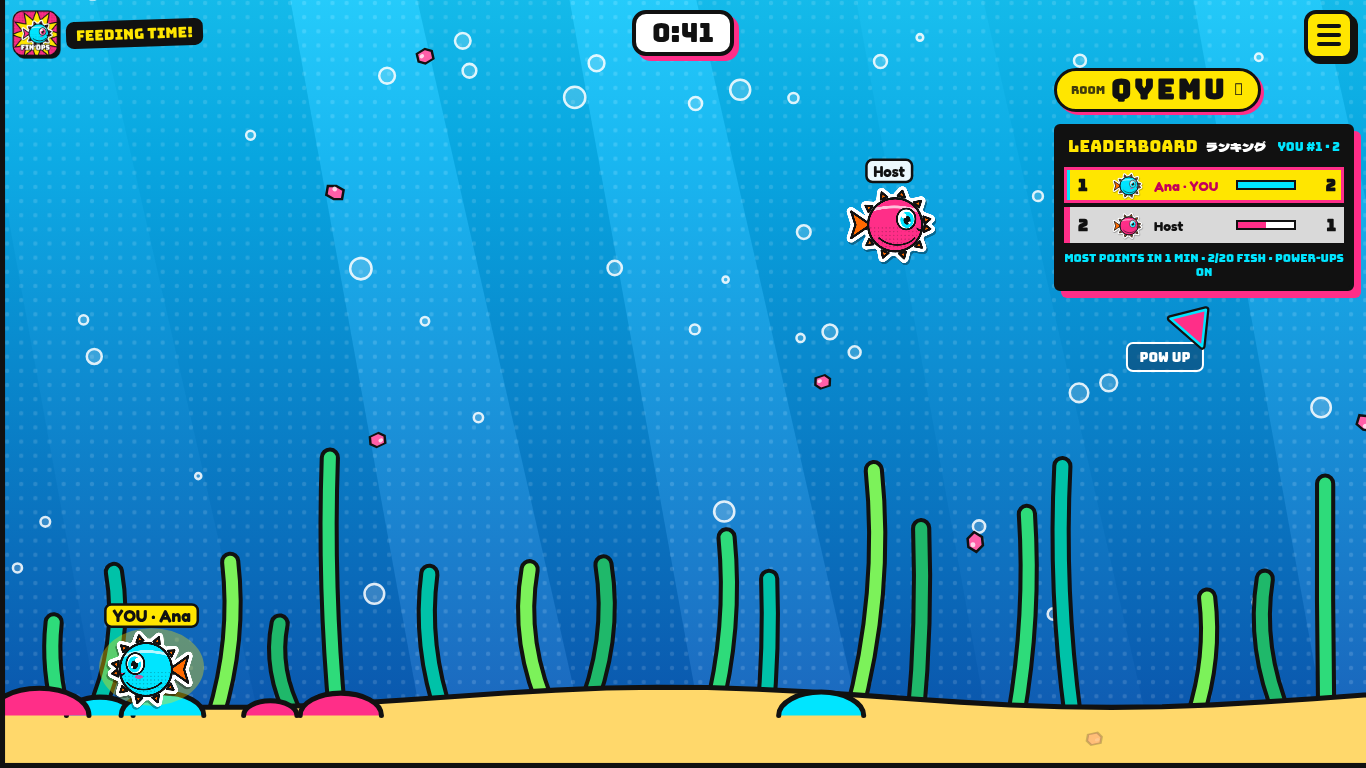
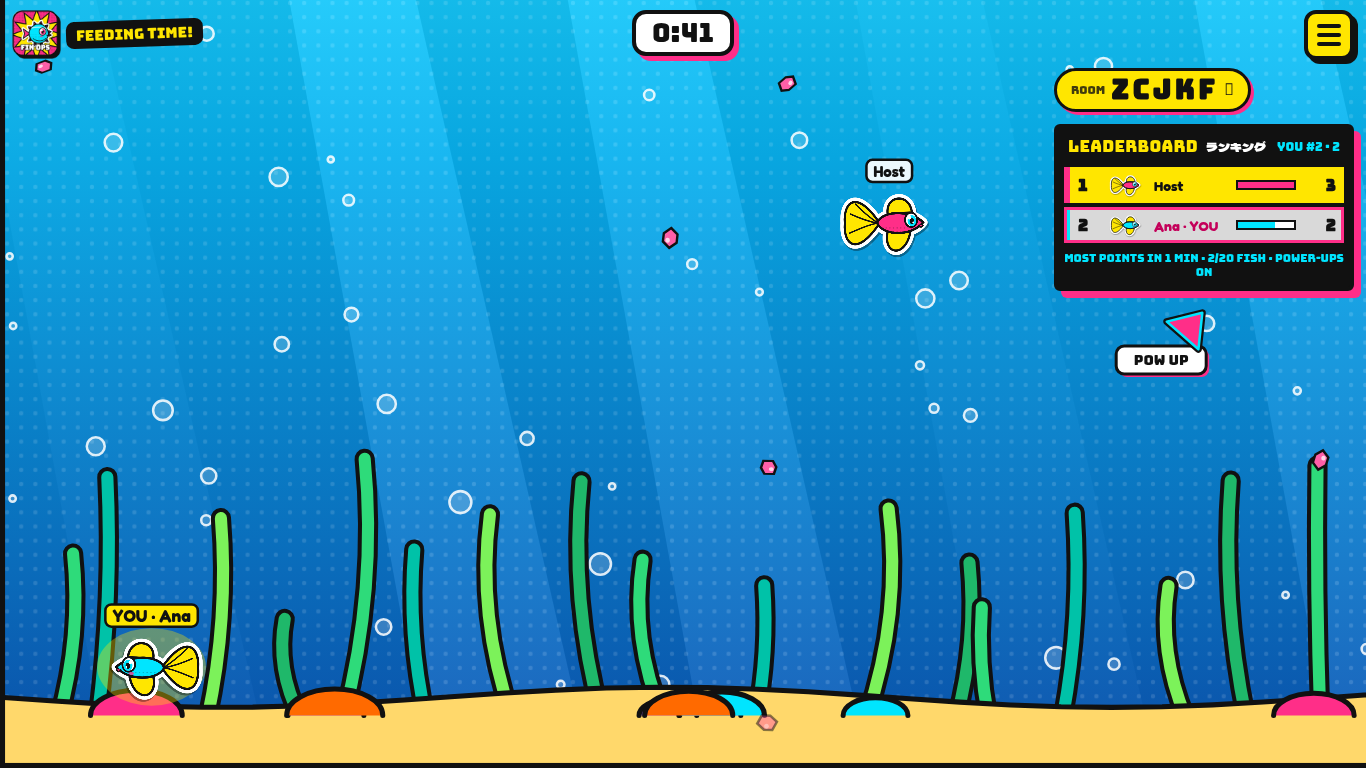
Fin Ops: POW UP indicator styled like the timer pill

diff --git a/games/finops/app.js b/games/finops/app.js
@@ -1212,10 +1212,10 @@ function drawBursts(t) {
 // off-screen pointer to the pill, drawn in screen space
 function drawPillArrow(pill, t) {
   // off-screen indicator: subtle white "POW UP" box + pink arrow (14px gap from the box edge), no pulse
-  const BW = 76, BH = 28, GAP = 14, AL = 30, AW = 21; // box size, arrow gap / length / half-width
+  const BW = 90, BH = 28, SH = 3, GAP = 14, AL = 30, AW = 21; // box size, arrow gap / length / half-width
   const sx = (pill.x - cam.x) * cam.z + VW / 2, sy = (pill.y - cam.y) * cam.z + VH / 2;
   if (sx > 0 && sx < VW && sy > 0 && sy < VH) return;
-  const mx = BW / 2 + GAP + AL + 8, my = BH / 2 + GAP + AL + 8; // keep box + arrow tip fully on screen
+  const mx = BW / 2 + GAP + AL + SH + 8, my = BH / 2 + GAP + AL + SH + 8; // keep box + arrow tip fully on screen
   const cx = VW / 2, cy = VH / 2, dx = sx - cx, dy = sy - cy, sc = Math.min((VW / 2 - mx) / Math.abs(dx || 1e-6), (VH / 2 - my) / Math.abs(dy || 1e-6));
   let ax = cx + dx * sc, ay = cy + dy * sc;
   // slide below any HUD panel (leaderboard, room code, timer, menu) it would sit under
@@ -1225,9 +1225,11 @@ function drawPillArrow(pill, t) {
   const ang = Math.atan2(sy - ay, sx - ax), c = Math.abs(Math.cos(ang)), si = Math.abs(Math.sin(ang));
   const edge = Math.min(c > 1e-6 ? BW / 2 / c : 1e9, si > 1e-6 ? BH / 2 / si : 1e9), base = edge + GAP;
   ctx.save(); ctx.translate(ax, ay);
-  ctx.fillStyle = 'rgba(17,17,40,.35)'; ctx.strokeStyle = '#fff'; ctx.lineWidth = 2;
-  ctx.beginPath(); if (ctx.roundRect) ctx.roundRect(-BW / 2, -BH / 2, BW, BH, 6); else ctx.rect(-BW / 2, -BH / 2, BW, BH); ctx.fill(); ctx.stroke();
-  ctx.fillStyle = '#fff'; ctx.font = "13px Bungee, Fredoka, sans-serif"; ctx.textAlign = 'center'; ctx.textBaseline = 'middle'; ctx.fillText('POW UP', 0, 1);
+  // styled like the .timer-pill (white, #111 outline, pink offset shadow, dark Bungee text), scaled ~55%
+  const box = (ox) => { ctx.beginPath(); if (ctx.roundRect) ctx.roundRect(-BW / 2 + ox, -BH / 2 + ox, BW, BH, 8); else ctx.rect(-BW / 2 + ox, -BH / 2 + ox, BW, BH); };
+  ctx.fillStyle = '#FF2E88'; box(SH); ctx.fill();
+  ctx.fillStyle = '#fff'; ctx.strokeStyle = '#111'; ctx.lineWidth = 3; box(0); ctx.fill(); ctx.stroke();
+  ctx.fillStyle = '#111'; ctx.font = "14px Bungee, Fredoka, sans-serif"; ctx.textAlign = 'center'; ctx.textBaseline = 'middle'; ctx.fillText('POW UP', 0, 1);
   ctx.save(); ctx.rotate(ang); ctx.lineJoin = 'round'; ctx.beginPath(); ctx.moveTo(base + AL, 0); ctx.lineTo(base, -AW); ctx.lineTo(base, AW); ctx.closePath();
   ctx.strokeStyle = '#111'; ctx.lineWidth = 7; ctx.stroke(); ctx.fillStyle = '#FF2E88'; ctx.fill(); ctx.strokeStyle = '#00E5FF'; ctx.lineWidth = 2.5; ctx.stroke(); ctx.restore();
   ctx.restore();
